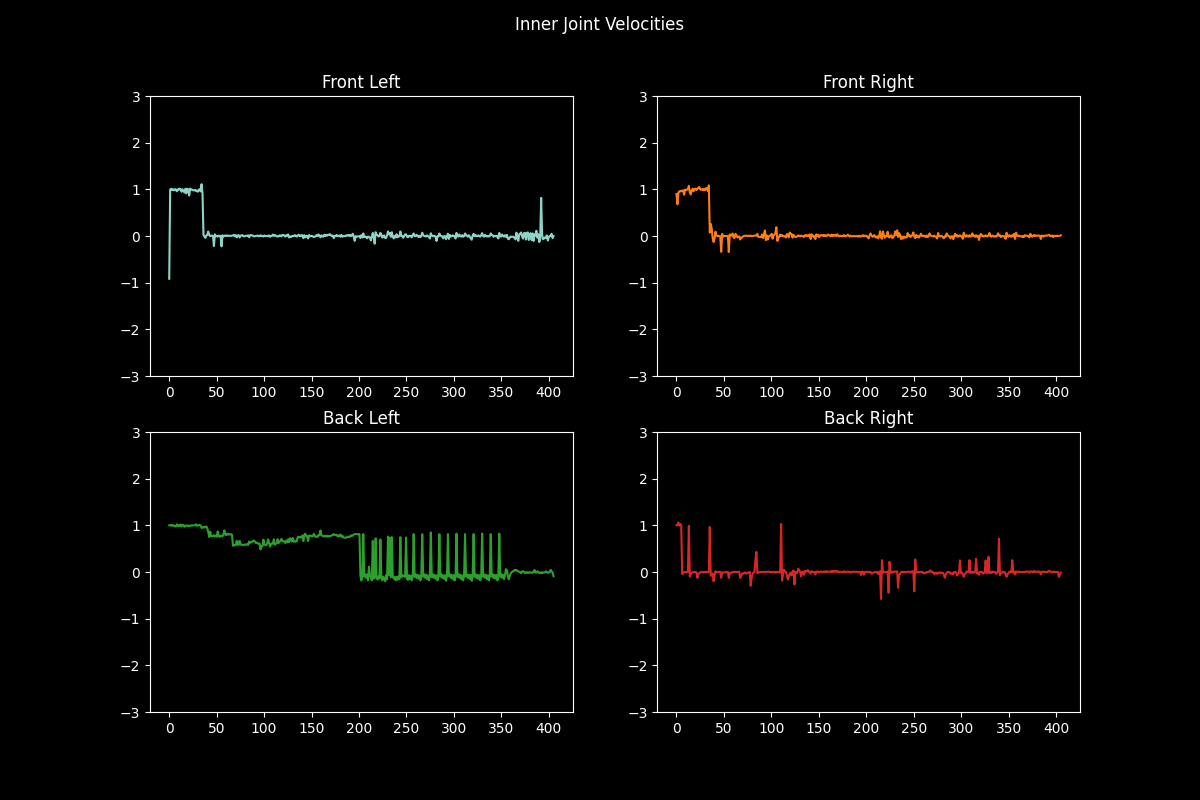
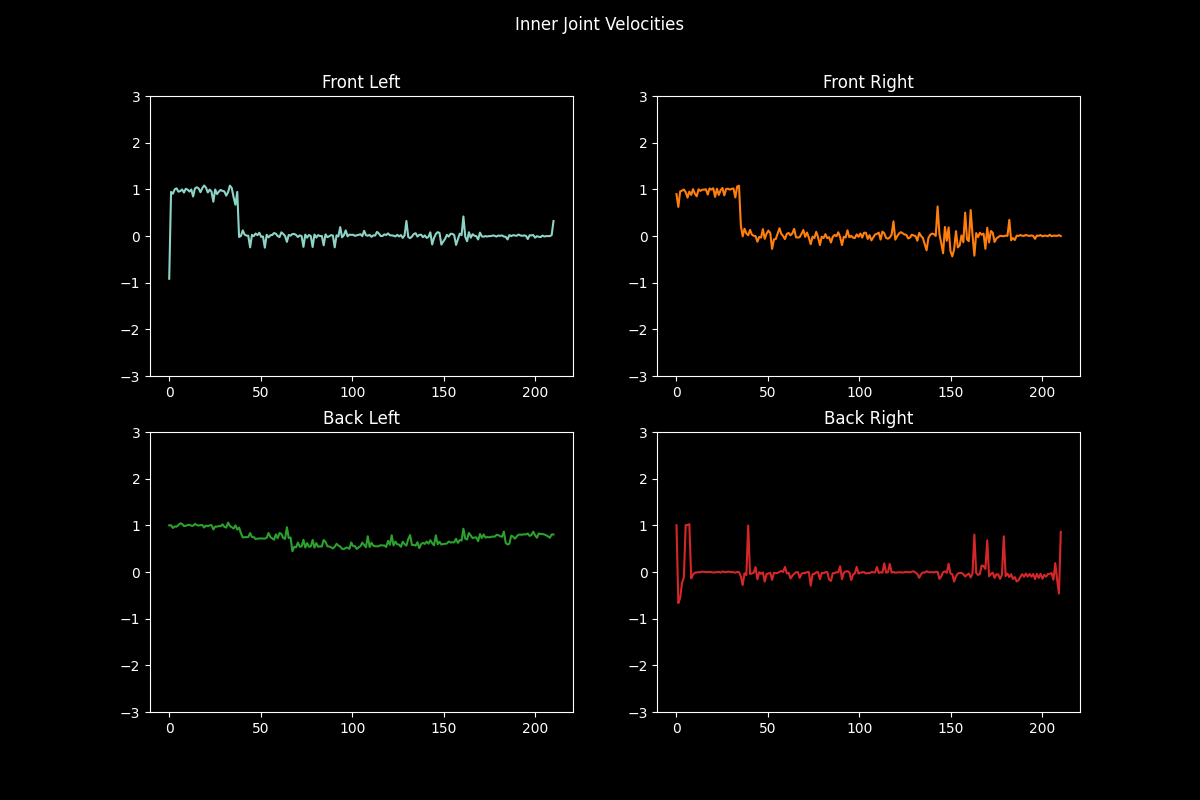
increased friction and max steps per episode

diff --git a/spider_bot/spider_bot_model.py b/spider_bot/spider_bot_model.py
@@ -27,7 +27,7 @@ class SpiderBot:
         self.reset_joints_state(self.middle_joints, np.full(4, -1))
         self.reset_joints_state(self.inner_joints, np.full(4, 1))
         
-        self.change_lateral_friction(self.outer_joints, np.full(4, 1))
+        self.change_lateral_friction(self.outer_joints, np.full(4, 5))
         self.set_max_joint_velocities(self.joints_flat, np.full(12, self.nominal_joint_velocity))
         
         # JOINT INDICES

diff --git a/driver.py b/driver.py
@@ -62,7 +62,7 @@ class Driver:
 
     def episode(self, agent: Agent, logging=False, eval=False) -> None:
         i = 0
-        max_steps = 5096
+        max_steps = 10192
         done = False
         rewards = []
         observation = self.env.reset()
